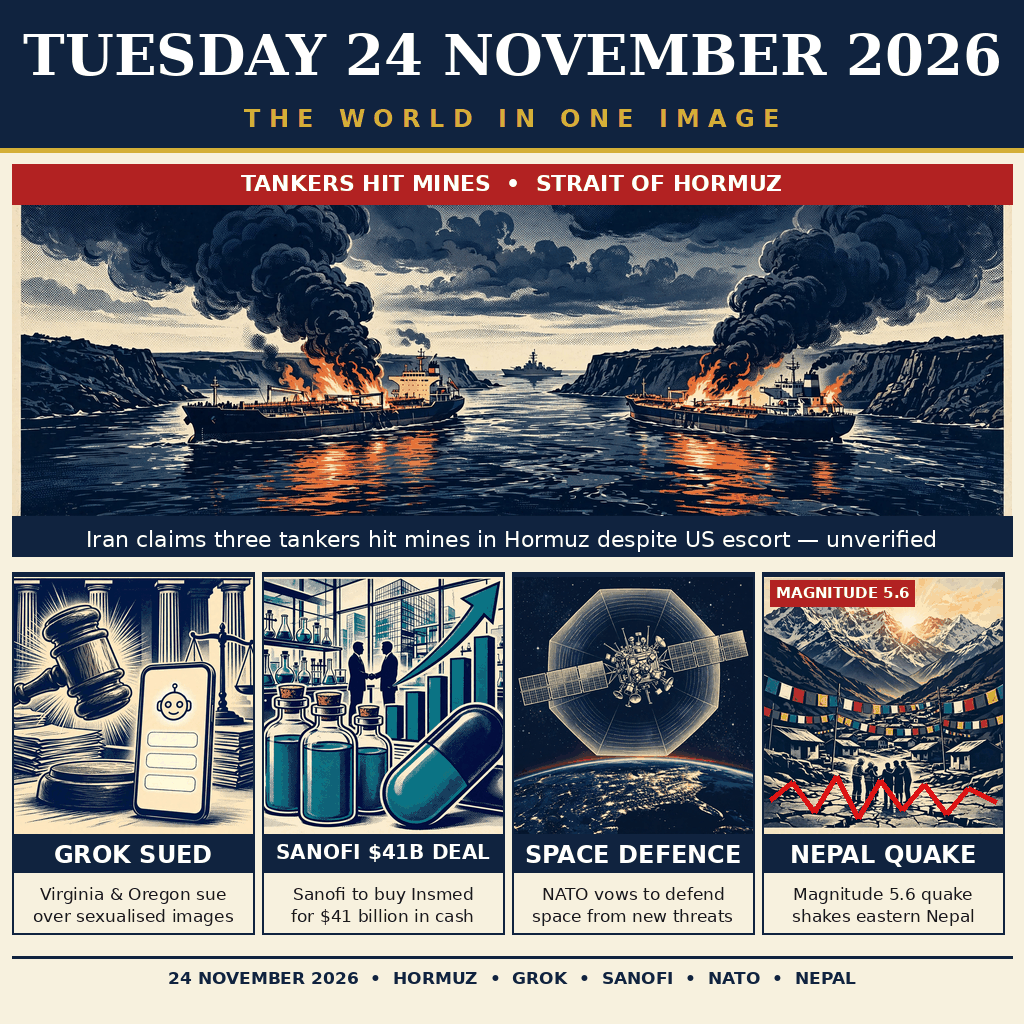
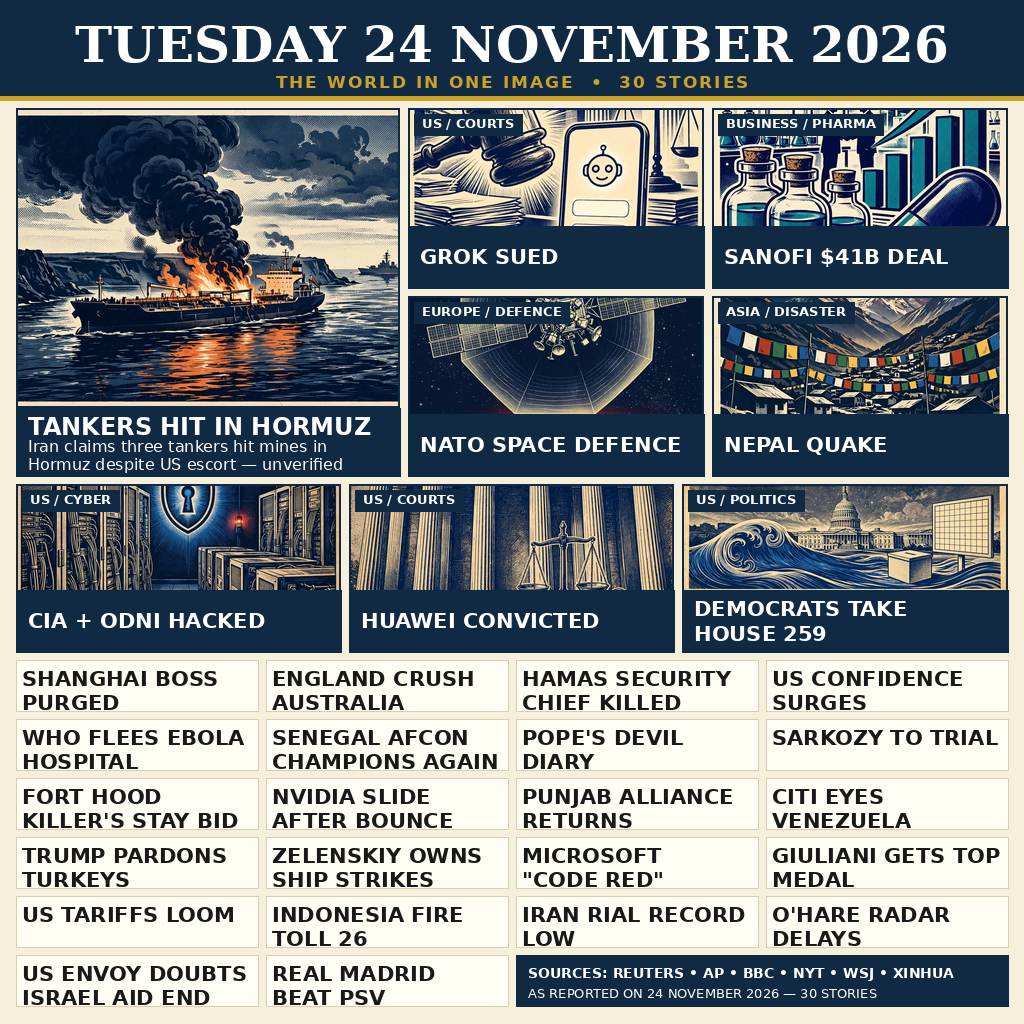
news-image-20261124 dense: 30-story front page

diff --git a/main.py b/main.py
@@ -1,38 +1,251 @@
 #!/usr/bin/env python3
-"""Entry program for news-image-20261124 (round 2).
+"""news-image-20261124 — dense front page: 30 stories from Tuesday 24 November 2026.
 
-Copies the bundled front-page image to the output directory.
-Standard library only; no network access.
+Composes a 1024x1024 newspaper front page from the illustration assets in
+assets/ (hero + 7 vignettes) and PIL-rendered text only. No network, stdlib +
+Pillow only. Deterministic: the same assets always produce the same bytes.
+
+Writes entry.png to $MAKEFUN_OUTPUT_DIR (default /output/entry.png) and
+verifies the output against EXPECTED_SHA256 when it is set.
 """
+
 import hashlib
+import io
 import os
-import shutil
 import sys
+from pathlib import Path
+
+from PIL import Image, ImageDraw, ImageFont
+
+# Integrity check: sha256 of the exact entry.png bytes this program writes.
+# Filled in after the first run; empty means "check disabled" (first run only).
[1 lines of base64/hex data omitted]
+
+MAX_BYTES = 1_048_576  # 1 MiB gate
+
+PAPER = (246, 239, 219)       # #F6EFDB warm newsprint
+BLUE = (16, 42, 67)           # #102A43 deep blue
+GOLD = (201, 162, 39)         # #C9A227 masthead rule / subhead
+INK = (25, 25, 25)            # #191919 headlines
+CELL_FILL = (255, 253, 244)   # #FFFDF4 headline cells
+CELL_BORDER = (217, 205, 178) # #D9CDB2 cell border
+WHITE = (255, 255, 255)
+
+SERIF_BOLD = "/usr/share/fonts/truetype/dejavu/DejaVuSerif-Bold.ttf"
+SANS_BOLD = "/usr/share/fonts/truetype/dejavu/DejaVuSans-Bold.ttf"
+SANS = "/usr/share/fonts/truetype/dejavu/DejaVuSans.ttf"
+
+ROOT = Path(__file__).resolve().parent
+ASSETS = ROOT / "assets"
 
 
-def sha256_of(path):
-    digest = hashlib.sha256()
-    with open(path, "rb") as handle:
-        for chunk in iter(lambda: handle.read(65536), b""):
-            digest.update(chunk)
-    return digest.hexdigest()
+def font(path, size):
+    return ImageFont.truetype(path, size)
+
+
+def crop_to_aspect(img, target_w, target_h):
+    """Centre-crop img to the target aspect ratio. Never stretches."""
+    target = target_w / target_h
+    w, h = img.size
+    aspect = w / h
+    if aspect > target:  # too wide: crop width
+        new_w = int(round(h * target))
+        x0 = (w - new_w) // 2
+        return img.crop((x0, 0, x0 + new_w, h))
+    new_h = int(round(w / target))
+    y0 = (h - new_h) // 2
+    return img.crop((0, y0, w, y0 + new_h))
+
+
+def paste_cover(draw_img, path, box, crop_box=None):
+    """Paste an asset into box (x0, y0, x1, y1), cropping (never stretching)."""
+    x0, y0, x1, y1 = box
+    tw, th = x1 - x0, y1 - y0
+    img = Image.open(ASSETS / path).convert("RGB")
+    if crop_box is not None:
+        img = img.crop(crop_box)
+    else:
+        img = crop_to_aspect(img, tw, th)
+    img = img.resize((tw, th), Image.LANCZOS)
+    draw_img.paste(img, (x0, y0))
+    return img
+
+
+def draw_tracked(draw, cx, baseline_y, text, fnt, fill, tracking=2):
+    """Draw centred text with letter-spacing (tracking px between glyphs)."""
+    widths = [draw.textlength(ch, font=fnt) for ch in text]
+    total = sum(widths) + tracking * max(0, len(text) - 1)
+    x = cx - total / 2
+    for ch, w in zip(text, widths):
+        draw.text((x, baseline_y), ch, font=fnt, fill=fill, anchor="ls")
+        x += w + tracking
+
+
+def tag_pill(draw, x, y, text, fnt):
+    """Small white-on-blue tag pill at the top-left of a picture."""
+    tw = draw.textlength(text, font=fnt)
+    bbox = fnt.getbbox(text)
+    th = bbox[3] - bbox[1]
+    pad_x, pad_y = 8, 5
+    pw, ph = int(tw) + 2 * pad_x, th + 2 * pad_y
+    draw.rectangle([x, y, x + pw, y + ph], fill=BLUE)
+    draw.text((x + pad_x, y + pad_y - bbox[1]), text, font=fnt, fill=WHITE)
+
+
+def label_bar(draw, x, y, w, h, lines, fnt, line_height=25):
+    """Deep-blue label bar with vertically centred white bold lines."""
+    draw.rectangle([x, y, x + w, y + h], fill=BLUE)
+    total = len(lines) * line_height
+    start_y = y + (h - total) // 2
+    for i, line in enumerate(lines):
+        lw = draw.textlength(line, font=fnt)
+        if lw > w - 24:
+            raise ValueError("label line too wide: %r (%dpx > %dpx)" % (line, lw, w - 24))
+        draw.text((x + 12, start_y + i * line_height), line,
+                  font=fnt, fill=WHITE, anchor="la")
+
+
+def vignette(img, draw, x, y, w, asset, lines, tag, img_h=118, bar_h=62):
+    """One vignette panel: picture on top, label bar below, tag pill on picture."""
+    paste_cover(img, asset, (x, y, x + w, y + img_h))
+    label_bar(draw, x, y + img_h, w, bar_h, lines, font(SANS_BOLD, 21))
+    tag_pill(draw, x + 6, y + 6, tag, font(SANS_BOLD, 13))
+    draw.rectangle([x, y, x + w - 1, y + img_h + bar_h - 1], outline=BLUE, width=2)
+
+
+def headline_cell(draw, x, y, lines, fnt):
+    """One 242x51 headline-only cell: fill, 1px border, bold lines, 6px padding."""
+    draw.rectangle([x, y, x + 242, y + 51], fill=CELL_FILL, outline=CELL_BORDER, width=1)
+    for i, line in enumerate(lines):
+        lw = draw.textlength(line, font=fnt)
+        if lw > 230:
+            raise ValueError("cell line too wide: %r (%dpx > 230px)" % (line, lw))
+        draw.text((x + 6, y + 6 + i * 24), line, font=fnt, fill=INK, anchor="la")
+
+
+def compose():
+    img = Image.new("RGB", (1024, 1024), PAPER)
+    draw = ImageDraw.Draw(img)
+
+    # ---- Masthead: y0-96, deep blue; gold rule y96-100 ----
+    draw.rectangle([0, 0, 1024, 96], fill=BLUE)
+    date_font = font(SERIF_BOLD, 50)
+    date = "TUESDAY 24 NOVEMBER 2026"
+    if draw.textlength(date, font=date_font) > 1024:
+        raise ValueError("masthead date too wide")
+    draw.text((512, 62), date, font=date_font, fill=WHITE, anchor="ms")
+    draw_tracked(draw, 512, 88, "THE WORLD IN ONE IMAGE  \u2022  30 STORIES",
+                 font(SANS_BOLD, 17), GOLD, tracking=2)
+    draw.rectangle([0, 96, 1024, 100], fill=GOLD)
+
+    # ---- Hero #1: image x16-400 y108-408, caption bar y408-476 ----
+    # Source is a wide panorama (2736x912): left-window crop keeps the left
+    # burning tanker whole plus the escort warship at the right edge.
+    paste_cover(img, "hero.png", (16, 108, 400, 408), crop_box=(300, 0, 1467, 912))
+    draw.rectangle([16, 108, 399, 407], outline=BLUE, width=2)
+    draw.rectangle([16, 408, 400, 476], fill=BLUE)
+    hero_head = "TANKERS HIT IN HORMUZ"
+    hf = font(SANS_BOLD, 24)
+    if draw.textlength(hero_head, font=hf) > 360:
+        raise ValueError("hero headline too wide")
+    draw.text((28, 412), hero_head, font=hf, fill=WHITE, anchor="la")
+    sub = font(SANS, 16)
+    draw.text((28, 437), "Iran claims three tankers hit mines in",
+              font=sub, fill=WHITE, anchor="la")
+    draw.text((28, 455), "Hormuz despite US escort \u2014 unverified",
+              font=sub, fill=WHITE, anchor="la")
+
+    # ---- Top vignettes 2x2: panels 296x180 ----
+    vignette(img, draw, 408, 108, 296, "grok.png", ["GROK SUED"], "US / COURTS")
+    vignette(img, draw, 712, 108, 296, "sanofi.png", ["SANOFI $41B DEAL"],
+             "BUSINESS / PHARMA")
+    vignette(img, draw, 408, 296, 296, "nato.png", ["NATO SPACE DEFENCE"],
+             "EUROPE / DEFENCE")
+    vignette(img, draw, 712, 296, 296, "nepal.png", ["NEPAL QUAKE"], "ASIA / DISASTER")
+
+    # ---- Middle vignettes: panels 325x168 (last 326 wide) ----
+    vignette(img, draw, 16, 484, 325, "cia.png", ["CIA + ODNI HACKED"], "US / CYBER",
+             img_h=106)
+    vignette(img, draw, 349, 484, 325, "huawei.png", ["HUAWEI CONVICTED"],
+             "US / COURTS", img_h=106)
+    vignette(img, draw, 682, 484, 326, "democrats.png",
+             ["DEMOCRATS TAKE", "HOUSE 259"], "US / POLITICS", img_h=106)
+
+    # ---- Headline grid: 4 cols x 6 rows, cells 242x51 ----
+    # (col, row, [lines]) — row-major, brief priority order; row 6 cols 3-4
+    # are the credit box. Explicit line breaks from the design spec.
+    cells = [
+        (0, 0, ["SHANGHAI BOSS", "PURGED"]),
+        (1, 0, ["ENGLAND CRUSH", "AUSTRALIA"]),
+        (2, 0, ["HAMAS SECURITY", "CHIEF KILLED"]),
+        (3, 0, ["US CONFIDENCE", "SURGES"]),
+        (0, 1, ["WHO FLEES EBOLA", "HOSPITAL"]),
+        (1, 1, ["SENEGAL AFCON", "CHAMPIONS AGAIN"]),
+        (2, 1, ["POPE'S DEVIL", "DIARY"]),
+        (3, 1, ["SARKOZY TO TRIAL"]),
+        (0, 2, ["FORT HOOD", "KILLER'S STAY BID"]),
+        (1, 2, ["NVIDIA SLIDE", "AFTER BOUNCE"]),
+        (2, 2, ["PUNJAB ALLIANCE", "RETURNS"]),
+        (3, 2, ["CITI EYES", "VENEZUELA"]),
+        (0, 3, ["TRUMP PARDONS", "TURKEYS"]),
+        (1, 3, ["ZELENSKIY OWNS", "SHIP STRIKES"]),
+        (2, 3, ["MICROSOFT", '"CODE RED"']),
+        (3, 3, ["GIULIANI GETS TOP", "MEDAL"]),
+        (0, 4, ["US TARIFFS LOOM"]),
+        (1, 4, ["INDONESIA FIRE", "TOLL 26"]),
+        (2, 4, ["IRAN RIAL RECORD", "LOW"]),
+        (3, 4, ["O'HARE RADAR", "DELAYS"]),
+        (0, 5, ["US ENVOY DOUBTS", "ISRAEL AID END"]),
+        (1, 5, ["REAL MADRID", "BEAT PSV"]),
+    ]
+    xs = [16, 266, 516, 766]
+    ys = [660, 719, 778, 837, 896, 955]
+    hf21 = font(SANS_BOLD, 21)
+    for col, row, lines in cells:
+        headline_cell(draw, xs[col], ys[row], lines, hf21)
+
+    # ---- Credit box: x516-1008 y955-1006 (spans row 6, cols 3-4) ----
+    draw.rectangle([516, 955, 1008, 1006], fill=BLUE)
+    draw.text((528, 965), "SOURCES: REUTERS \u2022 AP \u2022 BBC \u2022 NYT \u2022 WSJ \u2022 XINHUA",
+              font=font(SANS_BOLD, 14), fill=WHITE, anchor="la")
+    draw.text((528, 985), "AS REPORTED ON 24 NOVEMBER 2026 \u2014 30 STORIES",
+              font=font(SANS, 13), fill=WHITE, anchor="la")
+
+    return img
+
+
+def encode(img):
+    """Encode to PNG bytes; quantise to a 256-colour palette only if over the gate."""
+    buf = io.BytesIO()
+    img.save(buf, "PNG")
+    data = buf.getvalue()
+    if len(data) <= MAX_BYTES:
+        return data, "RGB"
+    pal = img.quantize(colors=256, method=Image.MEDIANCUT,
+                       dither=Image.FLOYDSTEINBERG)
+    buf = io.BytesIO()
+    pal.save(buf, "PNG")
+    data = buf.getvalue()
+    if len(data) > MAX_BYTES:
+        raise ValueError("entry still over 1 MiB after quantisation: %d bytes" % len(data))
+    return data, "palette-256"
 
 
 def main():
-    here = os.path.dirname(os.path.abspath(__file__))
-    source = os.path.join(here, "entry.png")
-    out_dir = os.environ.get("MAKEFUN_OUTPUT_DIR", "/output")
-    os.makedirs(out_dir, exist_ok=True)
-    target = os.path.join(out_dir, "entry.png")
-    expected = sha256_of(source)
-    shutil.copyfile(source, target)
-    actual = sha256_of(target)
-    if actual != expected:
-        print("integrity check failed:", actual, "!=", expected,
-              file=sys.stderr)
-        return 1
-    print("wrote", target, os.path.getsize(target), "bytes",
-          "sha256", actual)
+    out_dir = Path(os.environ.get("MAKEFUN_OUTPUT_DIR", "/output"))
+    out_dir.mkdir(parents=True, exist_ok=True)
+    img = compose()
+    if img.size != (1024, 1024):
+        raise ValueError("wrong canvas size: %r" % (img.size,))
+    data, mode = encode(img)
+    digest = hashlib.sha256(data).hexdigest()
+    if EXPECTED_SHA256 and digest != EXPECTED_SHA256:
+        raise SystemExit("integrity check FAILED: sha256 %s != EXPECTED %s"
+                         % (digest, EXPECTED_SHA256))
+    out_path = out_dir / "entry.png"
+    out_path.write_bytes(data)
+    print("wrote %s (%d bytes, sha256 %s, mode %s)"
+          % (out_path, len(data), digest, mode))
     return 0
 
 

diff --git a/README.md b/README.md
@@ -1,19 +1,55 @@
-# The World in One Image — Tuesday 24 November 2026
+[![make.fun](https://make.fun/badge/news-image-20261124.svg)](https://make.fun/bounty/news-image-20261124)
+[![rank](https://make.fun/badge/news-image-20261124/Angga-Nugraha/news-image-20261124/rank.svg)](https://make.fun/bounty/news-image-20261124)
+[![reward](https://make.fun/badge/news-image-20261124/Angga-Nugraha/news-image-20261124/reward.svg)](https://make.fun/bounty/news-image-20261124)
 
-[![make.fun · news-image-20261124](https://make.fun/badge/news-image-20261124.svg)](https://make.fun/bounty/news-image-20261124?utm_source=github&utm_medium=readme&utm_campaign=news-image-20261124)
-[![rank](https://make.fun/badge/news-image-20261124/Angga-Nugraha/news-image-20261124/rank.svg)](https://make.fun/bounty/news-image-20261124/leaderboard?utm_source=github&utm_medium=readme&utm_campaign=news-image-20261124)
-[![reward](https://make.fun/badge/news-image-20261124/Angga-Nugraha/news-image-20261124/reward.svg)](https://make.fun/bounty/news-image-20261124?utm_source=github&utm_medium=readme&utm_campaign=news-image-20261124)
+# news-image-20261124 — The World in One Image
 
-One image summing up the world's news of Tuesday 24 November 2026, as a
-newspaper front page. The masthead names the date; the hero story is the
-burning oil tankers in the Strait of Hormuz — Iran's unverified claim of
-three tankers hit by mines despite a US escort. Below it, four vignettes:
-Grok sued by Virginia and Oregon, Sanofi's $41B deal to buy Insmed, NATO's
-vow to defend space, and the magnitude 5.6 earthquake in eastern Nepal.
-All labels are rendered crisply as text, and every story is shown as
-reported — the Hormuz claim is labelled unverified.
+A newspaper front page summing up Tuesday 24 November 2026 in one image:
+30 stories — the Hormuz tanker attacks, Grok sued, the $41B Sanofi deal,
+NATO's space-defence vow, the Nepal quake, the CIA hack, Huawei convicted,
+and Democrats taking the House at 259 seats — plus 22 more headlines from
+the day, across every region and beat.
 
-Competition: https://make.fun/bounty/news-image-20261124
+Entry for the [make.fun bounty](https://make.fun/bounty/news-image-20261124):
+"Sum up 24 November's world news in one image" ($100, free to enter).
 
-`main.py` (Python standard library only) copies `entry.png` to
-`$MAKEFUN_OUTPUT_DIR/entry.png` and verifies it with a sha256 check.
+## How it is built
+
+`main.py` (Python 3, stdlib + Pillow only, no network) composes the
+1024×1024 front page from the illustration assets in `assets/` and
+PIL-rendered text — the masthead, hero caption, vignette labels and all
+30 headlines are drawn by the program, never baked into the pictures —
+and writes it to `$MAKEFUN_OUTPUT_DIR/entry.png` (default `/output/entry.png`).
+The build is deterministic: every run produces byte-identical output,
+verified in-program against a pinned SHA-256.
+
+Verified on this build: 1024×1024 RGB PNG, 838,529 bytes (under the
+1 MiB gate), three runs byte-identical (sha256
[1 lines of base64/hex data omitted]
+
+## The 30 stories
+
+Hero: tankers hit in Hormuz (Iran's claim, unverified). Vignettes: Grok
+sued, Sanofi's $41B deal, NATO space defence, Nepal quake, CIA + ODNI
+hacked, Huawei convicted, Democrats take the House at 259. Headline
+cells: Shanghai purge, England v Australia, Hamas security chief killed,
+US confidence, WHO Ebola evacuation, Senegal AFCON, Pope's diary,
+Sarkozy trial, Fort Hood stay bid, Nvidia slide, Punjab alliance, Citi
+eyes Venezuela, Trump pardons turkeys, Zelenskiy ship strikes,
+Microsoft "Code Red", Giuliani medal, US tariffs, Indonesia fire toll
+26, Iran rial record low, O'Hare radar delays, US envoy doubts Israel
+aid end, Real Madrid beat PSV. All events of — or first reported on —
+Tuesday 24 November 2026; nothing dated 25 November appears.
+
+Run it:
+
+```sh
+MAKEFUN_OUTPUT_DIR=out python3 main.py
+```
+
+## Files
+
+- `main.py` — the composer (entrypoint)
+- `entry.png` — the composed 1024×1024 front page (≤1 MiB)
+- `assets/` — 8 illustration assets (no text, no recognisable faces, no logos)
+- `LICENSE` — MIT
